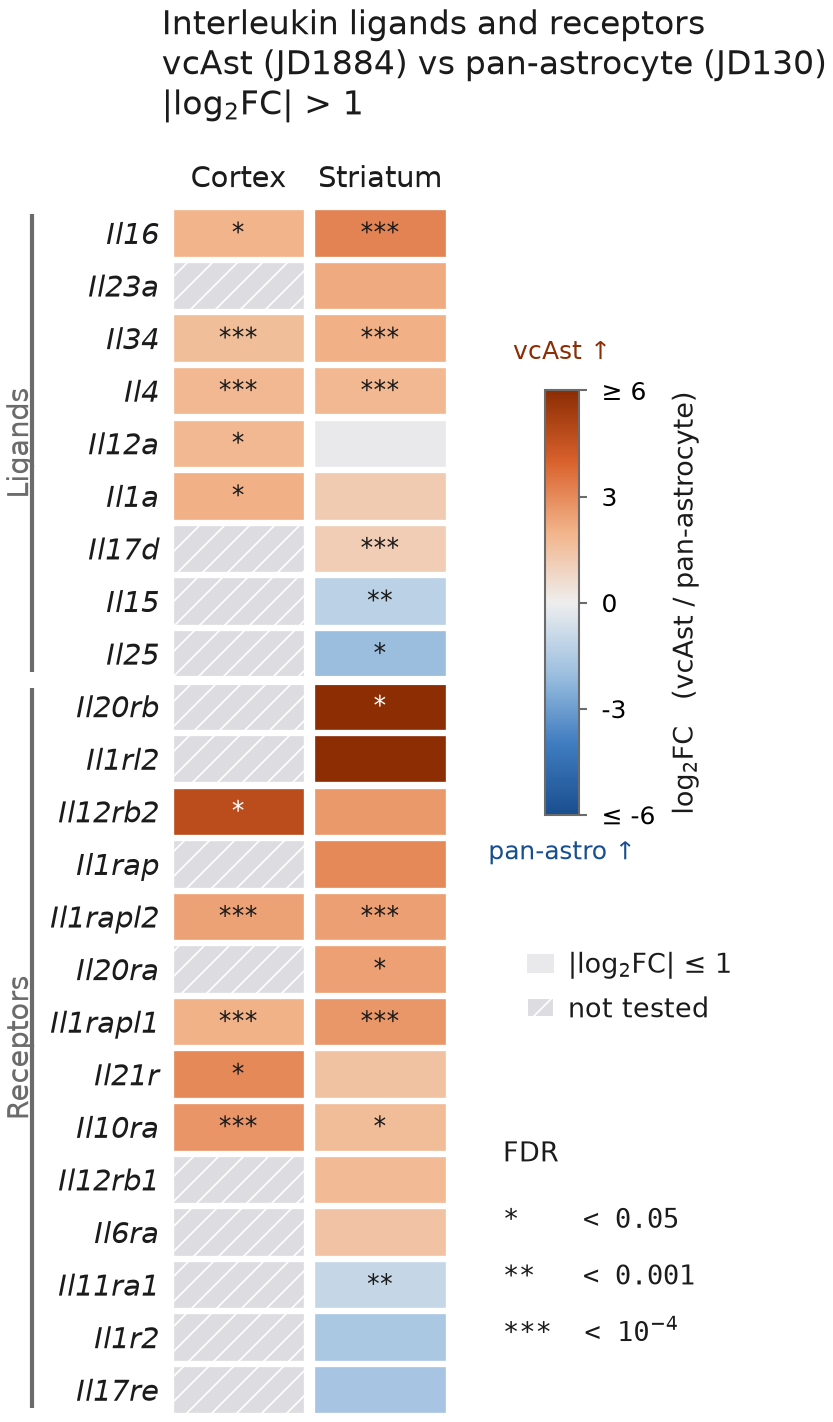
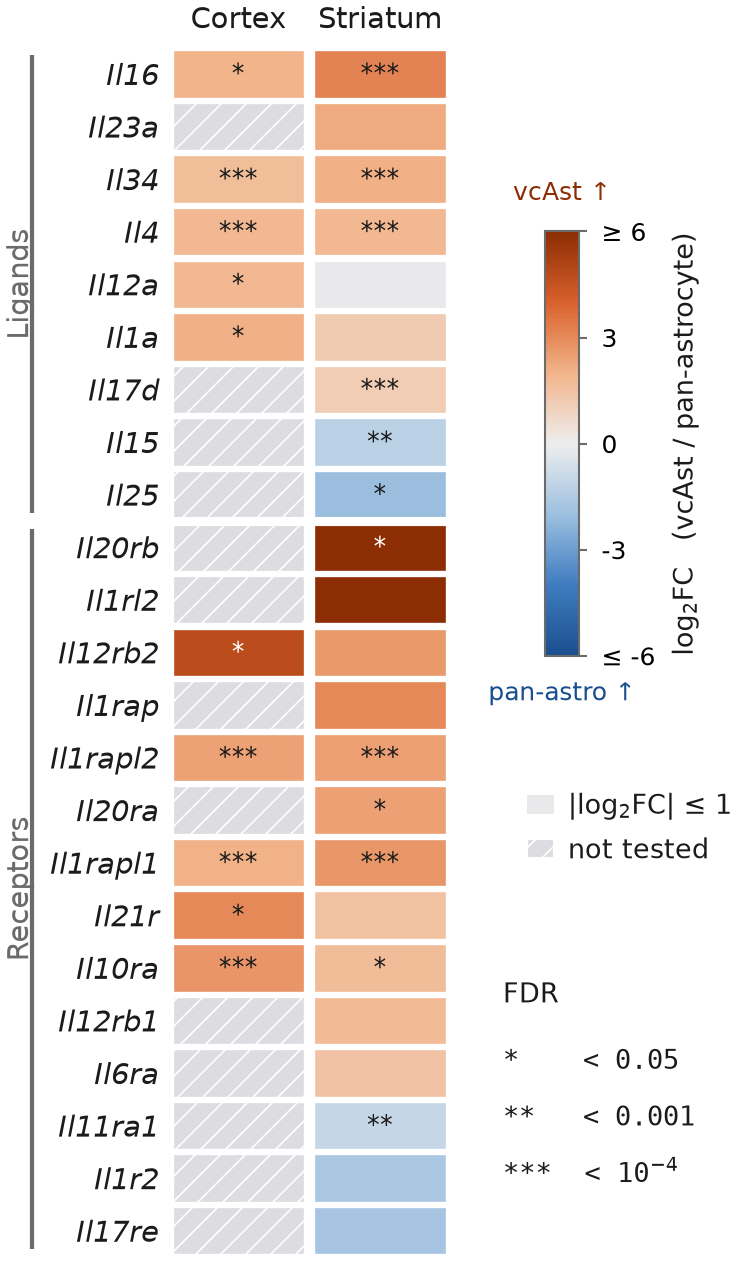
Remove title from IL log2FC heatmap figures
The heatmap is captioned in the manuscript figure legend, so the
in-figure title is redundant. Dot plot and expression figures keep
theirs.

Claude-Session: https://claude.ai/code/session_01WrURmqZvVDBV6aVcq7UhMJ

diff --git a/TRAP_IL_analysis/il_figures.py b/TRAP_IL_analysis/il_figures.py
@@ -315,10 +315,7 @@ def figure_heatmap():
     # ligand / receptor divider
     ax.plot([0, len(REGIONS)], [N_LIG, N_LIG], color=SURFACE, lw=2.2, zorder=4)
 
-    ax.set_title("Interleukin ligands and receptors\n"
-                 "vcAst (JD1884) vs pan-astrocyte (JD130)\n"
-                 f"{SEL['subtitle']}",
-                 pad=22, fontsize=8, color=INK, loc="left", x=-0.02)
+    # no title — the heatmap is captioned in the manuscript figure legend
 
     colorbar(fig, [0.70, 0.50, 0.035, 0.30])
 
